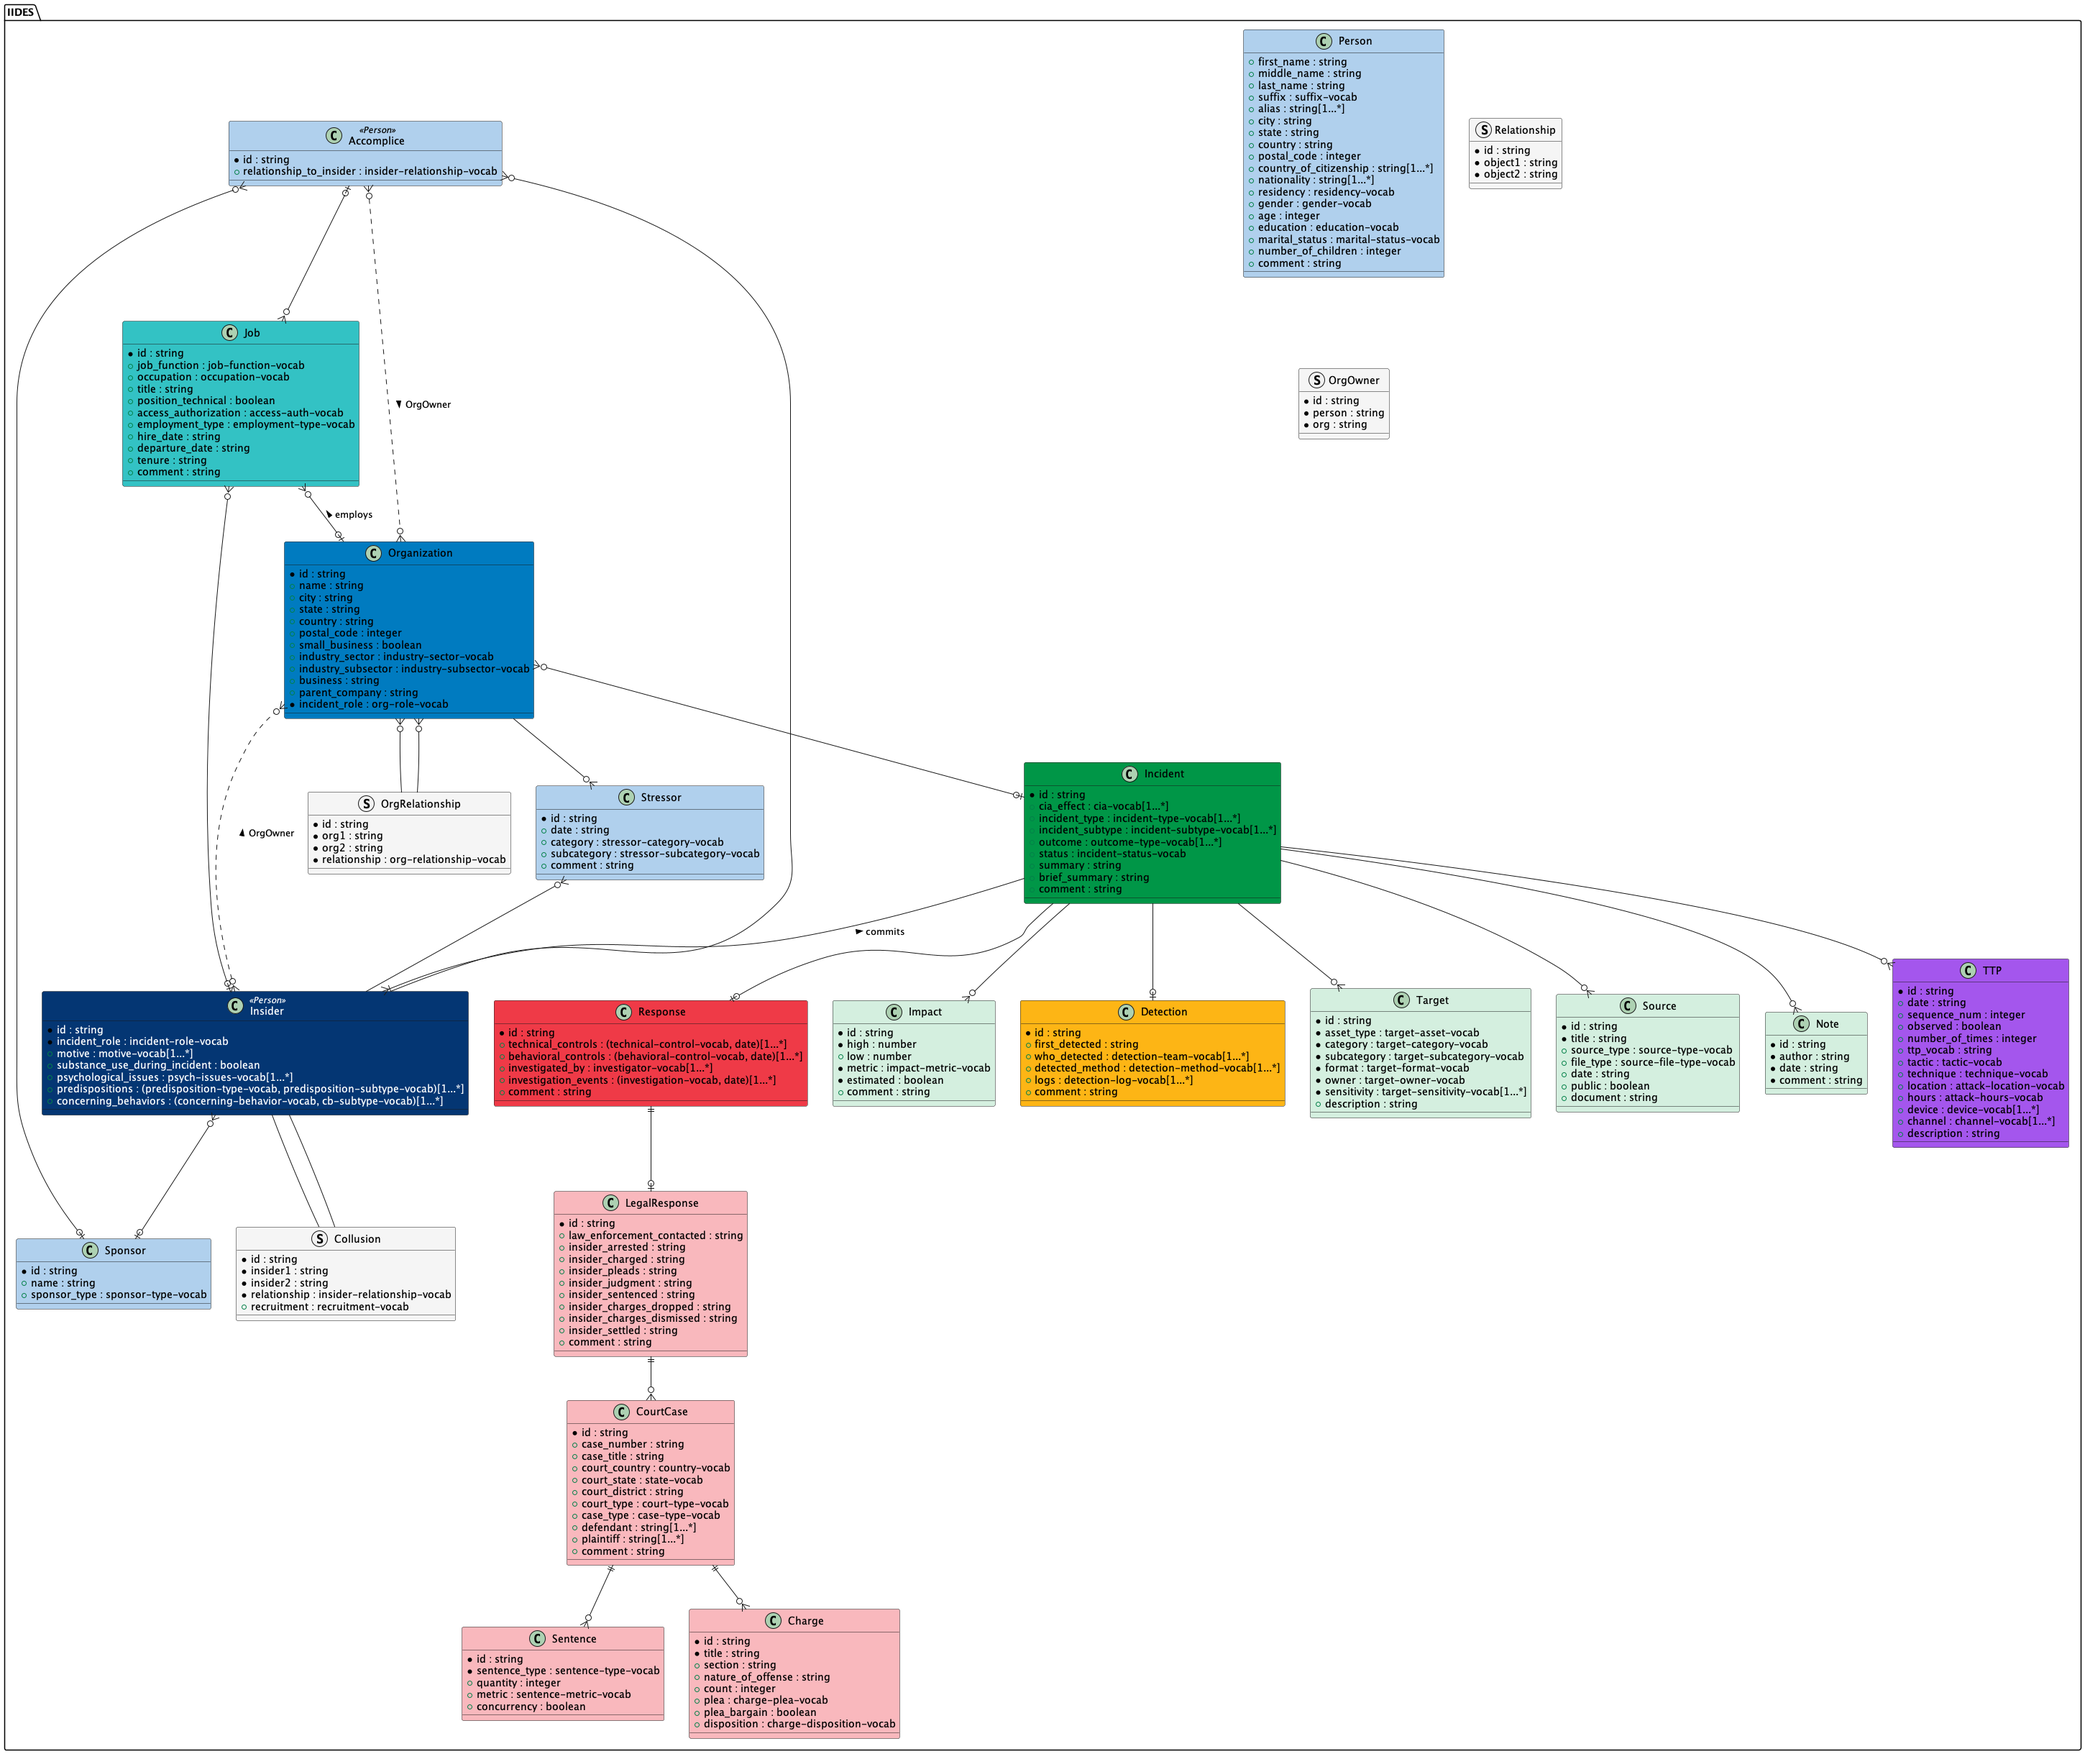
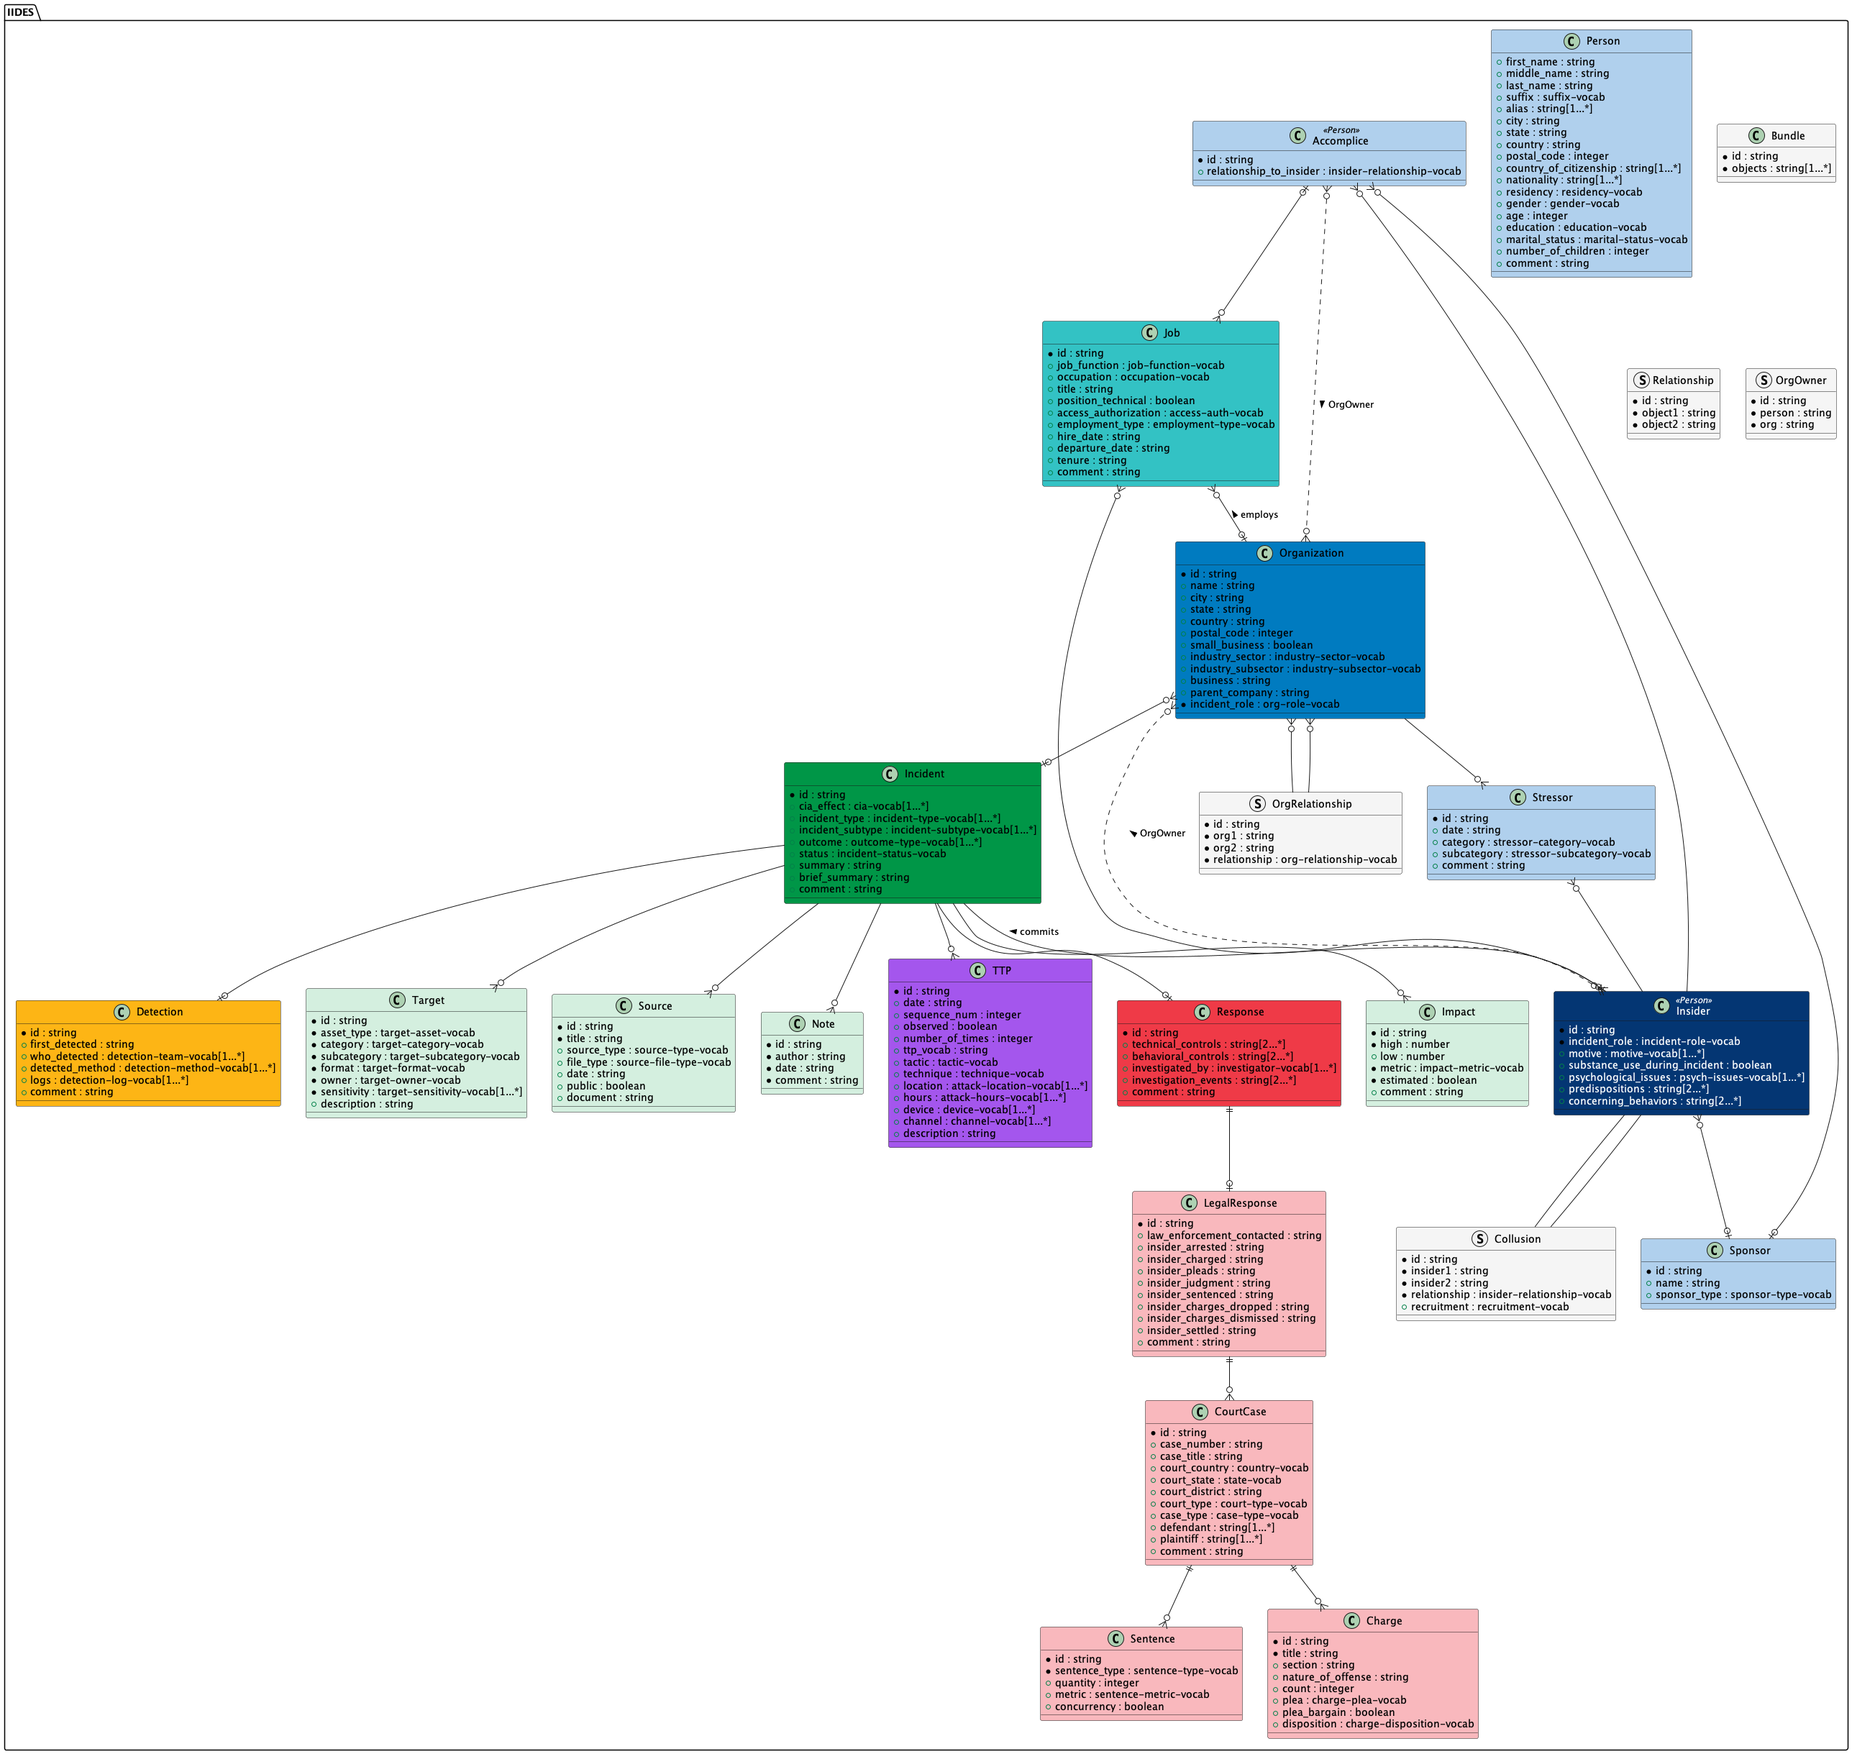
Bugfix minItems

diff --git a/generate_erd.py b/generate_erd.py
@@ -27,7 +27,8 @@ color_map = {
     'TTP': '#A456ED',
     'Org Relationship': '#F5F5F5',
     'Org Owner': '#F5F5F5',
-    'Relationship': '#F5F5F5'
+    'Relationship': '#F5F5F5',
+    'Bundle': '#F5F5F5',
 }
 
 

diff --git a/documentation/objects/legal-response.md b/documentation/objects/legal-response.md
@@ -4,15 +4,15 @@ Information about the legal response to the incident, particularly the dates of 
 
 ## Properties
 
-- **`id`** (required) _(string)_ : A unique string that begins with "legal-response--" and is appended with a UUIDv4.
+- **`id`** (required) *(string)* : A unique string that begins with "legal-response--" and is appended with a UUIDv4.
   - Uses pattern: ^legal-response--[0-9a-f]{8}-[0-9a-f]{4}-[0-9a-f]{4}-[0-9a-f]{4}-[0-9a-f]{12}$
-- **`law_enforcement_contacted`** _(date)_ : Organization contacts law enforcement to aid in the investigation of the incident. E.g., Police are called to respond to the Insider's violent behavior in the workplace).
-- **`insider_arrested`** _(date)_ : Insider is taken into custody. E.g., Police arrest insider in their home.
-- **`insider_charged`** _(date)_ : Insider is formally charged. Charges must relate to the incident. This category also covers a waiver of indictment and subsequent filing of information. E.g., Insider was indicted on computer fraud charges.
-- **`insider_pleads`** _(date)_ : Insider puts forth a plea to the court, including guilty, not guilty, nolo contendere (no contest). E.g., Insider pleads guilty to computer intrusion.
-- **`insider_judgment`** _(date)_ : Insider is found guilty, not guilty, or liable or not liable in a court of law. E.g., Insider is found guilty in a jury trial.
-- **`insider_sentenced`** _(date)_ : Insider is given a legally mandated punishment. E.g., Insider sentenced to 5 months in jail, then supervised release, community service, and restitution.
-- **`insider_charges_dropped`** _(date)_ : The plaintiff drops their case against the insider. E.g., The organization in a civil suit decides to drop the suit.
-- **`insider_charges_dismissed`** _(date)_ : The plaintiff dismiss their case against the insider. E.g., Upon discovery of further evidence, the judge decided to drop the charges against the insider.
-- **`insider_settled`** _(date)_ : The case against the insider is settled outside of the courtroom. E.g., The victim organization reached an agreement with the insider to not file formal charges in return for financial compensation.
-- **`comment`** _(string)_ : Comments clarifying the details or dates of the legal response.
+- **`law_enforcement_contacted`** *(date)* : Organization contacts law enforcement to aid in the investigation of the incident. E.g., Police are called to respond to the Insider's violent behavior in the workplace).
+- **`insider_arrested`** *(date)* : Insider is taken into custody. E.g., Police arrest insider in their home.
+- **`insider_charged`** *(date)* : Insider is formally charged. Charges must relate to the incident. This category also covers a waiver of indictment and subsequent filing of information. E.g., Insider was indicted on computer fraud charges.
+- **`insider_pleads`** *(date)* : Insider puts forth a plea to the court, including guilty, not guilty, nolo contendere (no contest). E.g., Insider pleads guilty to computer intrusion.
+- **`insider_judgment`** *(date)* : Insider is found guilty, not guilty, or liable or not liable in a court of law. E.g., Insider is found guilty in a jury trial.
+- **`insider_sentenced`** *(date)* : Insider is given a legally mandated punishment. E.g., Insider sentenced to 5 months in jail, then supervised release, community service, and restitution.
+- **`insider_charges_dropped`** *(date)* : The plaintiff drops their case against the insider. E.g., The organization in a civil suit decides to drop the suit.
+- **`insider_charges_dismissed`** *(date)* : The plaintiff dismiss their case against the insider. E.g., Upon discovery of further evidence, the judge decided to drop the charges against the insider.
+- **`insider_settled`** *(date)* : The case against the insider is settled outside of the courtroom. E.g., The victim organization reached an agreement with the insider to not file formal charges in return for financial compensation.
+- **`comment`** *(string)* : Comments clarifying the details or dates of the legal response.
